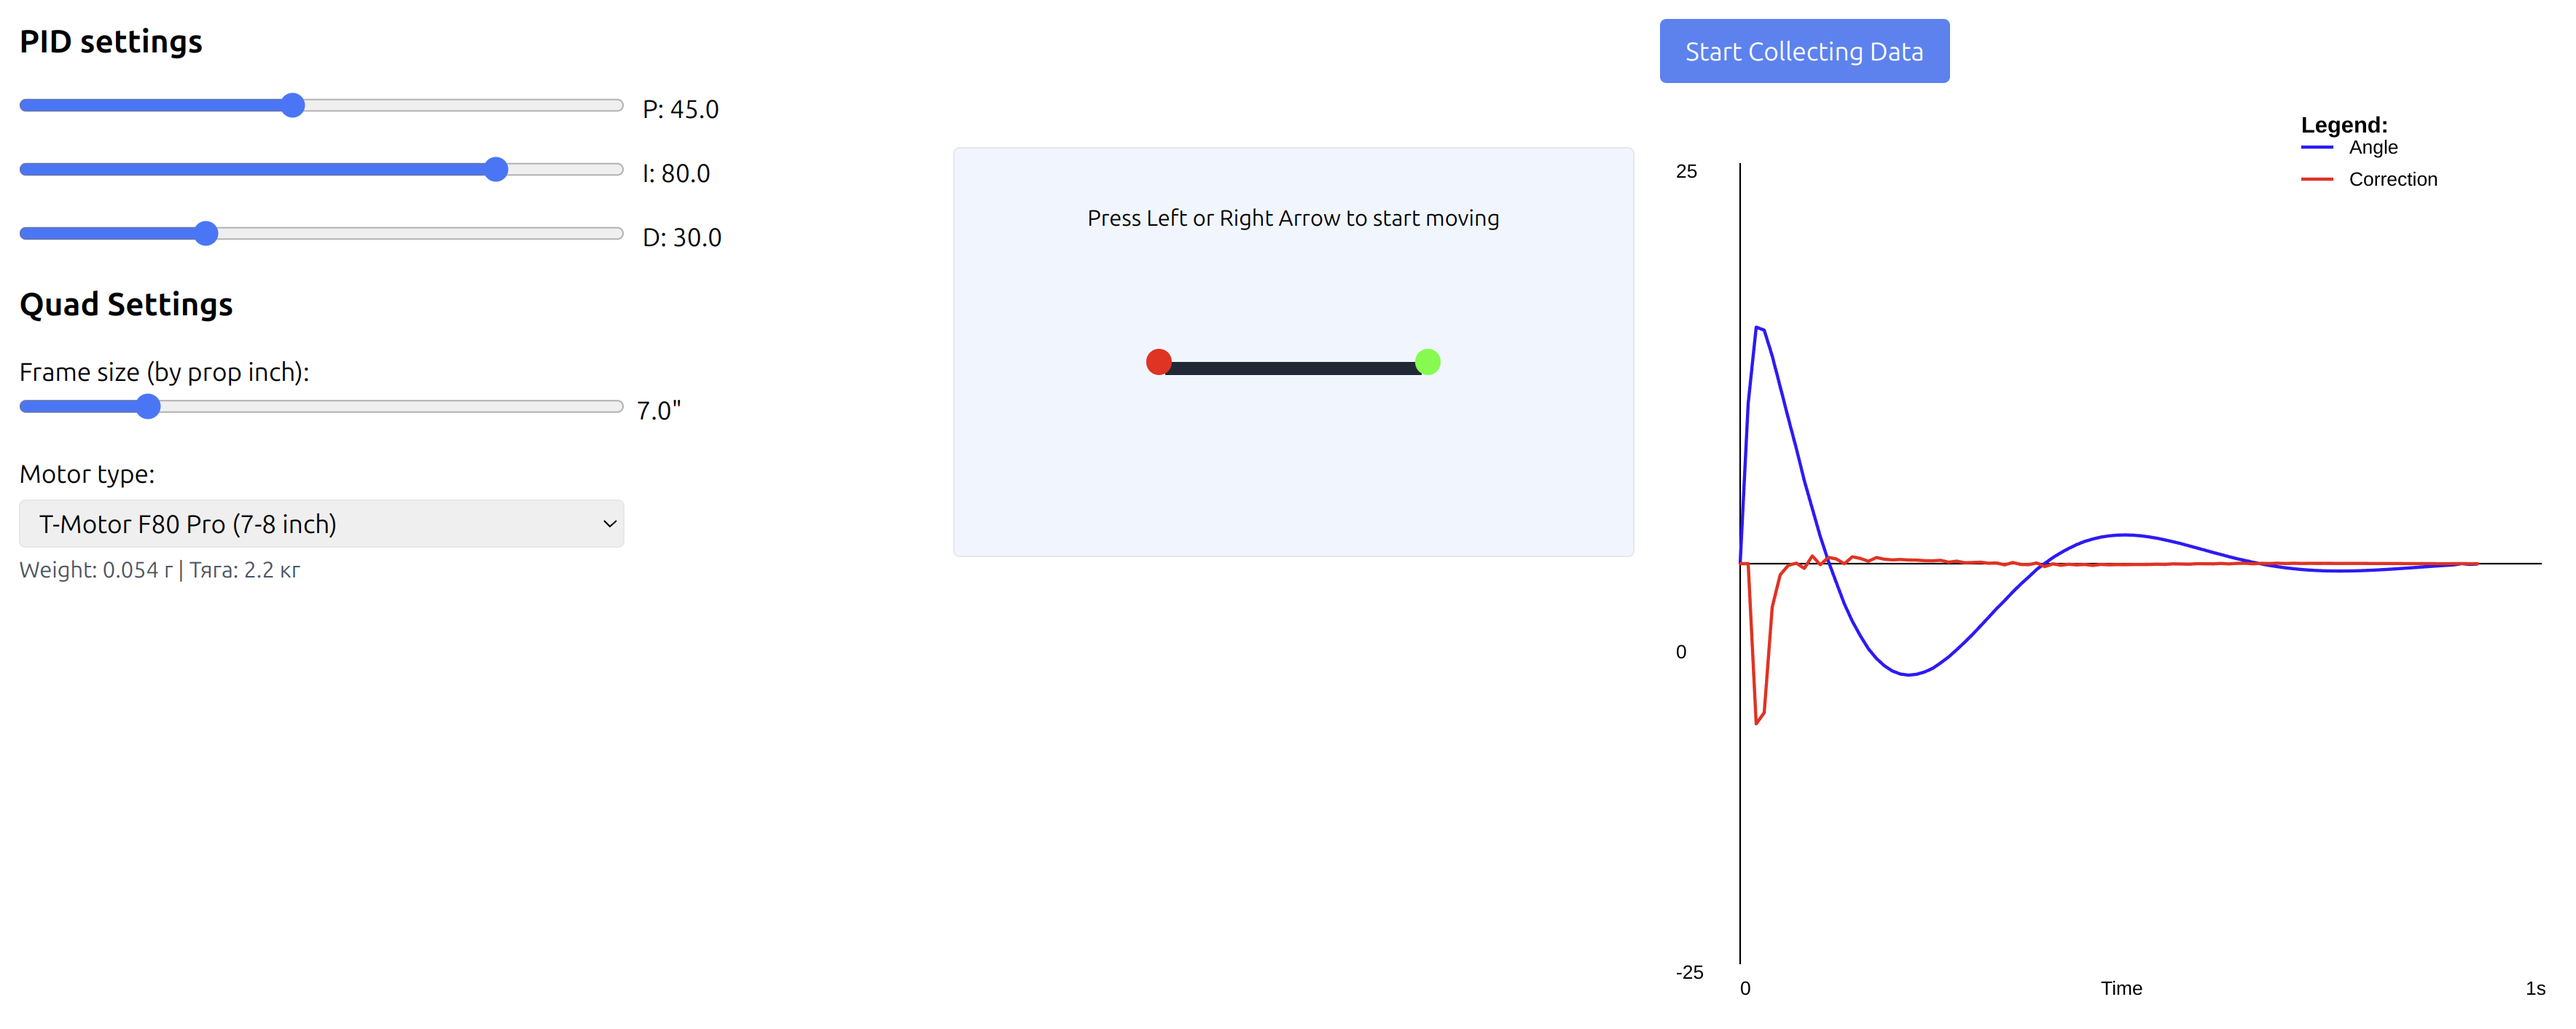
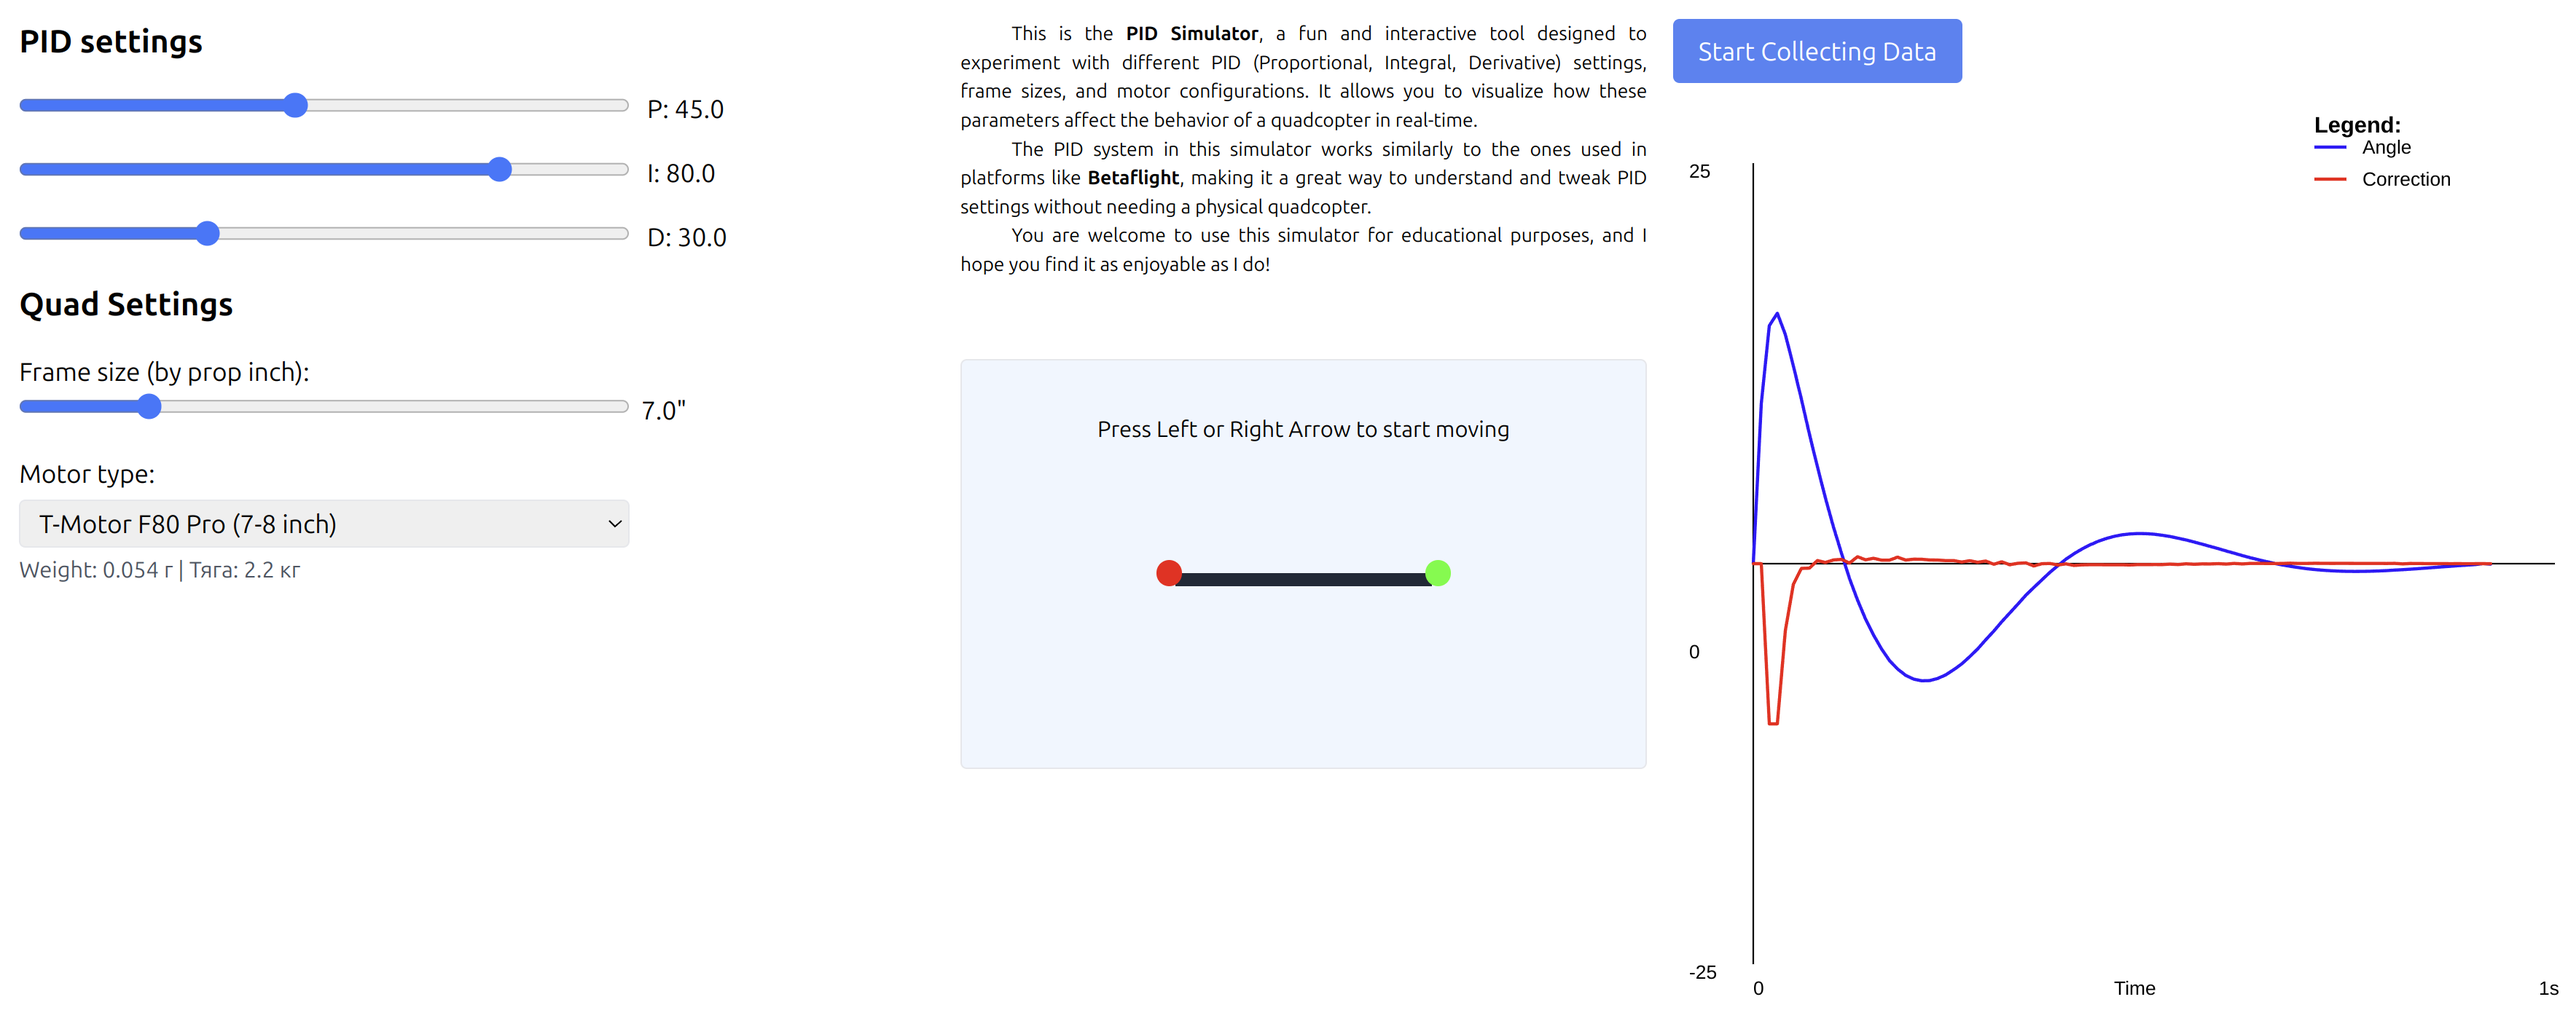
GH pages

diff --git a/src/App.tsx b/src/App.tsx
@@ -110,7 +110,18 @@ export default function App() {
                     setFrameSize={setFrameSize}
                 />
             </div>
-            <div className="md:w-1/4 relative top-20 justify-center">
+            <div className="md:w-1/4 relative justify-center">
+                <div style={{fontSize: 12, textIndent: "2rem", textAlign: "justify", marginBottom: 50}}>
+                    <p>
+                        This is the <b>PID Simulator</b>, a fun and interactive tool designed to experiment with different PID (Proportional, Integral, Derivative) settings, frame sizes, and motor configurations. It allows you to visualize how these parameters affect the behavior of a quadcopter in real-time.
+                    </p>
+                    <p>
+                        The PID system in this simulator works similarly to the ones used in platforms like <b>Betaflight</b>, making it a great way to understand and tweak PID settings without needing a physical quadcopter.
+                    </p>
+                    <p>
+                        You are welcome to use this simulator for educational purposes, and I hope you find it as enjoyable as I do!
+                    </p>
+                </div>
                 <CopterView
                     pid={pid}
                     setAngle={setAngle}
